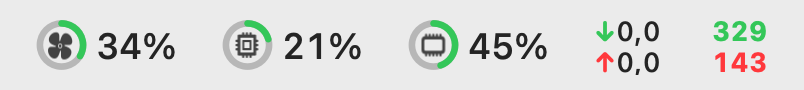
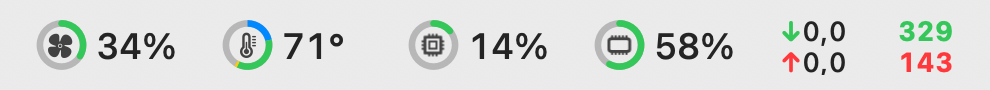
feat: temperature gauge (cold to hot) in menu bar, widget and panel
Reads CPU, GPU, SSD and battery sensors from the SMC; keys are discovered
once per Mac, and each sample reads only the hottest sensors per area
(full scan once a minute), about 3 ms instead of 30 ms.

Changed region(s): [[0.0311, 0.2222, 0.9639, 0.8222]]

diff --git a/Sources/ePerformanceView/DesktopWidget.swift b/Sources/ePerformanceView/DesktopWidget.swift
@@ -53,6 +53,7 @@ enum MatrixTheme {
     static let bright = Color(red: 0.71, green: 1, blue: 0.78)         // #B6FFC8
     static let warn = Color(red: 0.83, green: 1, blue: 0.23)           // #D4FF3A
     static let critical = Color(red: 1, green: 0.23, blue: 0.23)       // #FF3B3B
+    static let cold = Color(red: 0.24, green: 0.72, blue: 1)            // #3DB8FF
 
     static func color(_ level: Level) -> Color {
         switch level {
@@ -77,16 +78,16 @@ struct MatrixWidgetView: View {
             // Transparent: the desktop shows through. A near-invisible fill keeps the whole area draggable.
             RoundedRectangle(cornerRadius: 22, style: .continuous).fill(Color.black.opacity(0.001))
             HStack(spacing: 0) {
-                gauges(s).frame(width: 226)
+                gauges(s).frame(width: 254)
                 divider
-                cores(s).padding(.horizontal, 10).frame(width: 150)
+                cores(s).padding(.horizontal, 8).frame(width: 130)
                 divider
                 network(s).padding(.horizontal, 10).frame(width: 198)
                 divider
                 statusPanel(s).padding(.leading, 12).frame(maxWidth: .infinity, alignment: .leading)
             }
             .padding(.vertical, 12)
-            .padding(.horizontal, 14)
+            .padding(.horizontal, 6)
             // Dark halo keeps the green readable over any wallpaper.
             .compositingGroup()
             .shadow(color: .black.opacity(0.85), radius: 1.5)
@@ -113,6 +114,12 @@ struct MatrixWidgetView: View {
                             : zip(["L", "R"], s.fans).map { "\($0): \(Int($1.rpm)) rpm" }.joined(separator: " · ")) {
                 FanSplitRing(fans: s.fans)
             }
+            gaugeColumn(title: "temp", detail: s.temperatures.gpu.map { "gpu \(Int($0.rounded()))°" } ?? "—",
+                        help: temperatureHelp(s.temperatures)) {
+                MatrixHeatRing(celsius: s.temperatures.cpu, lineWidth: 5, radius: 21)
+                    .overlay(Text(s.temperatures.cpu.map { "\(Int($0.rounded()))°" } ?? "—")
+                        .font(MatrixTheme.font(13)).foregroundStyle(MatrixTheme.bright))
+            }
             gaugeColumn(title: "cpu", detail: "\(s.cores.count) núc") {
                 percentRing(s.cpuTotal, level: .cpu(s.cpuTotal))
             }
@@ -126,8 +133,13 @@ struct MatrixWidgetView: View {
     }
 
     private func percentRing(_ value: Double, level: Level) -> some View {
-        MatrixRing(fraction: value / 100, lineWidth: 5, color: MatrixTheme.color(level), radius: 23)
+        MatrixRing(fraction: value / 100, lineWidth: 5, color: MatrixTheme.color(level), radius: 21)
             .overlay(Text("\(Int(value.rounded()))%").font(MatrixTheme.font(13)).foregroundStyle(MatrixTheme.bright))
+    }
+
+    private func temperatureHelp(_ t: SMC.Temperatures) -> String {
+        let parts: [(String, Double?)] = [("CPU", t.cpu), ("GPU", t.gpu), ("SSD", t.ssd), ("bateria", t.battery)]
+        return parts.compactMap { name, v in v.map { "\(name) \(Int($0.rounded())) °C" } }.joined(separator: " · ")
     }
 
     private func gb(_ bytes: UInt64) -> String {
@@ -138,7 +150,7 @@ struct MatrixWidgetView: View {
     private func gaugeColumn<G: View>(title: String, detail: String, help: String? = nil,
                                       @ViewBuilder gauge: () -> G) -> some View {
         VStack(spacing: 3) {
-            gauge().frame(width: 54, height: 54)
+            gauge().frame(width: 50, height: 50)
             Text(title).font(MatrixTheme.font(11))
             Text(detail).font(MatrixTheme.font(10)).foregroundStyle(MatrixTheme.dim).lineLimit(1)
         }
@@ -167,7 +179,8 @@ struct MatrixWidgetView: View {
                 Spacer()
                 Text("w \(Fmt.short(s.diskWriteRate))")
             }
-            .font(MatrixTheme.font(11))
+            .font(MatrixTheme.font(10))
+            .lineLimit(1)
         }
     }
 
@@ -289,6 +302,30 @@ struct MatrixRing: View {
                 .trim(from: 0, to: max(0.02, min(1, fraction)))
                 .stroke(color, style: StrokeStyle(lineWidth: lineWidth, lineCap: .butt))
                 .rotationEffect(.degrees(-90))
+        }
+        .frame(width: radius * 2, height: radius * 2)
+    }
+}
+
+/// Temperature ring: the filled arc is painted cold (blue) to hot (red) along the way, like the menu bar gauge.
+struct MatrixHeatRing: View {
+    let celsius: Double?
+    let lineWidth: CGFloat
+    let radius: CGFloat
+
+    private static let colors = [MatrixTheme.cold, MatrixTheme.green, MatrixTheme.warn, MatrixTheme.critical]
+
+    var body: some View {
+        ZStack {
+            Circle().stroke(MatrixTheme.green.opacity(0.15), lineWidth: lineWidth)
+            if let celsius {
+                ForEach(Array(Heat.segments(upTo: celsius).enumerated()), id: \.offset) { i, piece in
+                    Circle()
+                        .trim(from: piece.from, to: piece.to)
+                        .stroke(Self.colors[min(i, Self.colors.count - 1)], style: StrokeStyle(lineWidth: lineWidth, lineCap: .butt))
+                        .rotationEffect(.degrees(-90))
+                }
+            }
         }
         .frame(width: radius * 2, height: radius * 2)
     }

diff --git a/Sources/ePerformanceView/SMC.swift b/Sources/ePerformanceView/SMC.swift
@@ -1,7 +1,7 @@
 import Foundation
 import IOKit
 
-/// Minimal read-only client for the AppleSMC user client (fan speeds).
+/// Minimal read-only client for the AppleSMC user client (fan speeds and temperatures).
 final class SMC {
     private struct Version { var major: UInt8 = 0, minor: UInt8 = 0, build: UInt8 = 0, reserved: UInt8 = 0; var release: UInt16 = 0 }
     private struct PLimit { var version: UInt16 = 0, length: UInt16 = 0; var cpu: UInt32 = 0, gpu: UInt32 = 0, mem: UInt32 = 0 }
@@ -43,15 +43,24 @@ final class SMC {
         return (r == kIOReturnSuccess && output.result == 0) ? output : nil
     }
 
+    /// Size and type never change for a key, so they are asked once; each later read is a single call.
+    private var keyInfoCache: [String: KeyInfo] = [:]
+
     /// Returns the raw bytes and the type code of an SMC key.
     private func read(_ key: String) -> (type: UInt32, bytes: [UInt8])? {
-        var infoReq = Param(); infoReq.key = Self.fourCC(key); infoReq.data8 = 9
-        guard let info = call(&infoReq) else { return nil }
-        var readReq = Param(); readReq.key = Self.fourCC(key); readReq.keyInfo.dataSize = info.keyInfo.dataSize; readReq.data8 = 5
+        let info: KeyInfo
+        if let cached = keyInfoCache[key] {
+            info = cached
+        } else {
+            var infoReq = Param(); infoReq.key = Self.fourCC(key); infoReq.data8 = 9
+            guard let reply = call(&infoReq) else { return nil }
+            info = reply.keyInfo
+            keyInfoCache[key] = info
+        }
+        var readReq = Param(); readReq.key = Self.fourCC(key); readReq.keyInfo.dataSize = info.dataSize; readReq.data8 = 5
         guard let value = call(&readReq) else { return nil }
         let b = value.bytes
-        let raw = [b.0, b.1, b.2, b.3]
-        return (info.keyInfo.dataType, raw)
+        return (info.dataType, [b.0, b.1, b.2, b.3])
     }
 
     private func number(_ key: String) -> Double? {
@@ -72,6 +81,63 @@ final class SMC {
     struct Fan: Identifiable { let id: Int; let rpm: Double; let min: Double; let max: Double
         /// Share of the maximum speed (0 when stopped).
         var fraction: Double { max > 0 ? Swift.max(0, Swift.min(1, rpm / max)) : 0 }
+    }
+
+    /// Hottest reading per area, in °C; nil when this Mac exposes no sensor for it.
+    struct Temperatures: Equatable {
+        var cpu: Double?
+        var gpu: Double?
+        var ssd: Double?
+        var battery: Double?
+    }
+
+    /// Temperature keys grouped by area, discovered once: key names differ between Mac models,
+    /// so they are listed from the SMC instead of hard-coded.
+    private lazy var temperatureKeys: [WritableKeyPath<Temperatures, Double?>: [String]] = {
+        var groups: [WritableKeyPath<Temperatures, Double?>: [String]] = [:]
+        for key in allKeys() where key.hasPrefix("T") {
+            let area: WritableKeyPath<Temperatures, Double?>? =
+                key.hasPrefix("Tp") || key.hasPrefix("Te") ? \.cpu    // performance and efficiency cores
+                : key.hasPrefix("Tg") ? \.gpu
+                : key.hasPrefix("TH") ? \.ssd                         // NAND/SSD
+                : key.hasPrefix("TB") ? \.battery
+                : nil
+            if let area { groups[area, default: []].append(key) }
+        }
+        return groups
+    }()
+
+    /// Hottest sensors per area from the last full scan; the usual read touches only these.
+    private var hotKeys: [WritableKeyPath<Temperatures, Double?>: [String]] = [:]
+    private var readsSinceScan = 0
+    /// Every key is read once per this many calls (~1 min at the 3 s sample rate); a full read takes ~30 ms.
+    private static let fullScanEvery = 20
+    private static let hotKeysPerArea = 6
+
+    func temperatures() -> Temperatures {
+        let fullScan = hotKeys.isEmpty || readsSinceScan >= Self.fullScanEvery
+        readsSinceScan = fullScan ? 0 : readsSinceScan + 1
+        var t = Temperatures()
+        for (area, keys) in fullScan ? temperatureKeys : hotKeys {
+            // Unused sensors read 0 or nonsense; keep plausible die/board values only.
+            let readings = keys.compactMap { key in number(key).map { (key, $0) } }.filter { $0.1 > 5 && $0.1 < 130 }
+            t[keyPath: area] = readings.map(\.1).max()
+            if fullScan {
+                hotKeys[area] = readings.sorted { $0.1 > $1.1 }.prefix(Self.hotKeysPerArea).map(\.0)
+            }
+        }
+        return t
+    }
+
+    /// Every key name, by index ("#KEY" holds the count as a big-endian ui32).
+    private func allKeys() -> [String] {
+        guard let count = read("#KEY").map({ $0.bytes.reduce(0) { ($0 << 8) | UInt32($1) } }) else { return [] }
+        return (0..<count).compactMap { i in
+            var req = Param(); req.data8 = 8; req.data32 = i
+            guard let out = call(&req) else { return nil }
+            let k = out.key
+            return String(bytes: [UInt8(k >> 24 & 0xFF), UInt8(k >> 16 & 0xFF), UInt8(k >> 8 & 0xFF), UInt8(k & 0xFF)], encoding: .ascii)
+        }
     }
 
     func fans() -> [Fan] {

diff --git a/Sources/ePerformanceView/Status.swift b/Sources/ePerformanceView/Status.swift
@@ -24,6 +24,12 @@ enum Level: Int, Comparable {
         return .ok
     }
 
+    /// Hottest CPU core: Apple Silicon runs fine into the 80s and starts throttling around 90-100 °C.
+    static func temperature(_ celsius: Double?) -> Level {
+        guard let t = celsius else { return .ok }
+        return t >= 90 ? .critical : t >= 70 ? .warn : .ok
+    }
+
     var nsColor: NSColor {
         switch self {
         case .ok: return .systemGreen
@@ -36,11 +42,44 @@ enum Level: Int, Comparable {
 }
 
 /// One gauge: a ring filled to `value` (0...100), colored by `level`, with a symbol inside.
+/// A `heat` gauge is painted cold-to-hot along the arc instead of with one level color.
 struct Gauge {
     let symbol: String
     let value: Double?          // nil = not available (no fan)
     let level: Level
     let text: String
+    var heat = false
+}
+
+/// Cold-to-hot scale for temperatures: the ring spans 30-100 °C and changes color at each band.
+enum Heat {
+    static let floor = 30.0, ceiling = 100.0
+    /// Upper bound of each band and its color, coldest first.
+    static let bands: [(upTo: Double, name: String, color: NSColor)] = [
+        (45, "fria", .systemBlue),
+        (70, "normal", .systemGreen),
+        (90, "morna", .systemYellow),
+        (.infinity, "quente", .systemRed),
+    ]
+
+    /// Position of a temperature on the ring, 0...1.
+    static func fraction(_ celsius: Double) -> Double { max(0, min(1, (celsius - floor) / (ceiling - floor))) }
+    static func band(_ celsius: Double) -> (upTo: Double, name: String, color: NSColor) {
+        bands.first { celsius < $0.upTo } ?? bands[bands.count - 1]
+    }
+
+    /// The filled part of the ring split into colored pieces, as (from, to) fractions.
+    static func segments(upTo celsius: Double) -> [(from: Double, to: Double, color: NSColor)] {
+        let end = max(0.04, fraction(celsius))
+        var start = 0.0, result: [(Double, Double, NSColor)] = []
+        for band in bands {
+            let stop = min(end, band.upTo.isFinite ? fraction(band.upTo) : 1)
+            if stop > start { result.append((start, stop, band.color)) }
+            start = stop
+            if start >= end { break }
+        }
+        return result
+    }
 }
 
 extension SystemSnapshot {
@@ -81,7 +120,7 @@ enum MenuBarImage {
             var x: CGFloat = 0
             for (i, g) in gauges.enumerated() {
                 let center = NSPoint(x: x + ring / 2, y: height / 2)
-                drawRing(at: center, value: g.value, color: g.level.nsColor)
+                drawRing(at: center, value: g.value, color: g.level.nsColor, heat: g.heat)
                 drawSymbol(g.symbol, at: center)
                 let text = g.text as NSString
                 let size = text.size(withAttributes: attrs)
@@ -155,7 +194,7 @@ enum MenuBarImage {
         img.draw(in: NSRect(x: center.x - s.width / 2, y: center.y - s.height / 2, width: s.width, height: s.height))
     }
 
-    private static func drawRing(at center: NSPoint, value: Double?, color: NSColor) {
+    private static func drawRing(at center: NSPoint, value: Double?, color: NSColor, heat: Bool = false) {
         let radius = ring / 2 - 1.3
         let track = NSBezierPath()
         track.appendArc(withCenter: center, radius: radius, startAngle: 0, endAngle: 360)
@@ -164,6 +203,17 @@ enum MenuBarImage {
         track.stroke()
         guard let value else { return }
 
+        if heat {
+            for piece in Heat.segments(upTo: value) {
+                let arc = NSBezierPath()
+                arc.appendArc(withCenter: center, radius: radius, startAngle: 90 - 360 * piece.from,
+                              endAngle: 90 - 360 * piece.to, clockwise: true)
+                arc.lineWidth = 2.2
+                piece.color.setStroke()
+                arc.stroke()
+            }
+            return
+        }
         let fraction = max(0.04, min(1, value / 100))
         let arc = NSBezierPath()
         arc.appendArc(withCenter: center, radius: radius, startAngle: 90, endAngle: 90 - 360 * fraction, clockwise: true)
@@ -175,13 +225,15 @@ enum MenuBarImage {
 }
 
 extension Monitor {
-    /// Fan, CPU and memory, in that order, shared by the menu bar and the widget.
+    /// Fan, temperature, CPU and memory, in that order, for the menu bar.
     var gauges: [Gauge] {
         let s = snapshot
         let fan = s.fanFraction
         return [
             Gauge(symbol: "fan.fill", value: fan.map { $0 * 100 }, level: .fan(fan),
                   text: fan.map { "\(Int(($0 * 100).rounded()))%" } ?? "—"),
+            Gauge(symbol: "thermometer.medium", value: s.temperatures.cpu, level: .temperature(s.temperatures.cpu),
+                  text: s.temperatures.cpu.map { "\(Int($0.rounded()))°" } ?? "—", heat: true),
             Gauge(symbol: "cpu", value: s.cpuTotal, level: .cpu(s.cpuTotal), text: "\(Int(s.cpuTotal.rounded()))%"),
             Gauge(symbol: "memorychip", value: memoryPercent, level: memoryLevel, text: "\(Int(memoryPercent.rounded()))%"),
         ]

diff --git a/Sources/ePerformanceView/App.swift b/Sources/ePerformanceView/App.swift
@@ -90,7 +90,29 @@ struct PanelView: View {
                 StatRow(icon: "cpu.fill", title: "GPU", value: "\(Int(gpu.rounded()))%", fraction: gpu / 100,
                         detail: s.gpuCores.map { "\($0) núcleos" } ?? "", tint: Level.cpu(gpu).color)
             }
+            temperatureRow(s.temperatures)
             fanRow(s)
+        }
+    }
+
+    /// Hottest CPU core with its cold-to-hot band, then the other areas.
+    @ViewBuilder private func temperatureRow(_ t: SMC.Temperatures) -> some View {
+        if let cpu = t.cpu {
+            let band = Heat.band(cpu)
+            VStack(alignment: .leading, spacing: 2) {
+                HStack {
+                    Label("Temperatura", systemImage: "thermometer.medium").frame(width: 92, alignment: .leading)
+                    Text("CPU \(Int(cpu.rounded())) °C").monospacedDigit().foregroundStyle(Color(nsColor: band.color))
+                    Spacer()
+                    Text(band.name).font(.caption).foregroundStyle(.secondary)
+                }
+                let others: [(String, Double?)] = [("GPU", t.gpu), ("SSD", t.ssd), ("bateria", t.battery)]
+                Text(others.compactMap { name, v in v.map { "\(name) \(Int($0.rounded())) °C" } }.joined(separator: " · "))
+                    .font(.caption).foregroundStyle(.secondary).monospacedDigit()
+                    .padding(.leading, 92)
+            }
+            .font(.callout)
+            .help("Núcleo mais quente da CPU. Azul até 45 °C, verde até 70 °C, amarelo até 90 °C, vermelho acima.")
         }
     }
 

diff --git a/Sources/ePerformanceView/Sampler.swift b/Sources/ePerformanceView/Sampler.swift
@@ -49,6 +49,7 @@ struct SystemSnapshot {
     var diskWriteRate: Double = 0
     var diskFree: Int64 = 0
     var fans: [SMC.Fan] = []
+    var temperatures = SMC.Temperatures()
     var thermal: ProcessInfo.ThermalState = .nominal
     var groups: [ProcessGroup] = []
     /// Load of each logical core, 0...100, in macOS order (efficiency cores first on Apple silicon).
@@ -118,6 +119,7 @@ final class Sampler: @unchecked Sendable { // only touched from the serial sampl
         (s.diskReadRate, s.diskWriteRate) = diskRates(now: now)
         s.diskFree = (try? URL(fileURLWithPath: "/").resourceValues(forKeys: [.volumeAvailableCapacityForImportantUsageKey]))?.volumeAvailableCapacityForImportantUsage ?? 0
         s.fans = smc?.fans() ?? []
+        s.temperatures = smc?.temperatures() ?? SMC.Temperatures()
         s.thermal = ProcessInfo.processInfo.thermalState
         s.groups = groups(interval: interval, now: now)
         return s

diff --git a/README.md b/README.md
@@ -2,7 +2,7 @@
 
 # ePerformance View
 
-App leve para macOS que mostra, de forma simples, **quem está usando CPU, memória, disco e rede**, o que está **ligando a ventoinha** e a **velocidade da internet**, direto na barra de menus e num widget na área de trabalho.
+App leve para macOS que mostra, de forma simples, **quem está usando CPU, memória, disco e rede**, a **temperatura**, o que está **ligando a ventoinha** e a **velocidade da internet**, direto na barra de menus e num widget na área de trabalho.
 
 Também identifica apps parados que podem ser fechados para liberar memória e diz qual app está por trás de processos com nome técnico (ex.: "com.apple.Virtualization.VirtualMachine" → Docker/Colima).
 
@@ -11,13 +11,14 @@ Também identifica apps parados que podem ser fechados para liberar memória e d
 ![barra de menus, tema escuro](docs/menubar-dark.png)
 ![barra de menus, tema claro](docs/menubar-light.png)
 
-Ventoinha, CPU e memória com anéis verde/amarelo/vermelho. Ao lado, a internet: **↓ download** e **↑ upload** agora (Mbps) e, à direita, a velocidade do último teste. O círculo com número aparece quando há app sugerido para fechar.
+Ventoinha, CPU e memória com anéis verde/amarelo/vermelho, e a temperatura num anel de frio a calor (azul → verde → amarelo → vermelho). Ao lado, a internet: **↓ download** e **↑ upload** agora (Mbps) e, à direita, a velocidade do último teste. O círculo com número aparece quando há app sugerido para fechar.
 
 ## Widget na área de trabalho
 
 ![widget na área de trabalho](docs/widget.png)
 
 - **fans**: as duas ventoinhas (L e R) num anel dividido
+- **temp**: núcleo mais quente da CPU, de frio a calor, e a GPU embaixo
 - **cpu / gpu / mem**: uso atual
 - **núcleos**: cada núcleo de performance e de eficiência, e o disco (leitura e escrita)
 - **net**: velocímetro de Mbps agora e o resultado do último teste (↓ / ↑)
